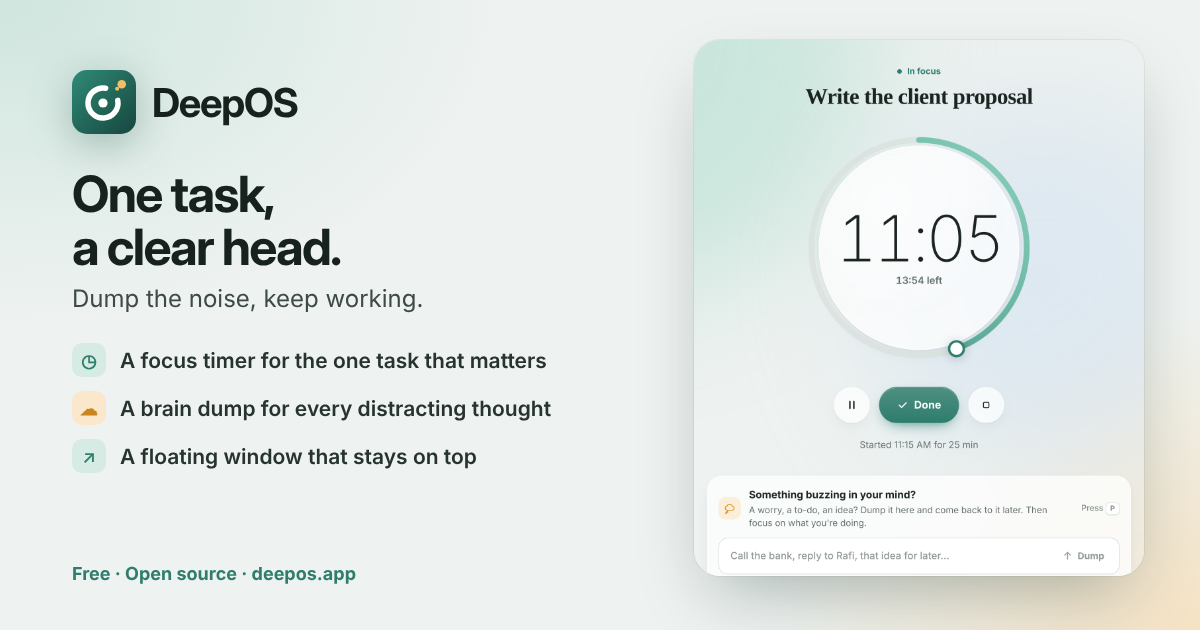
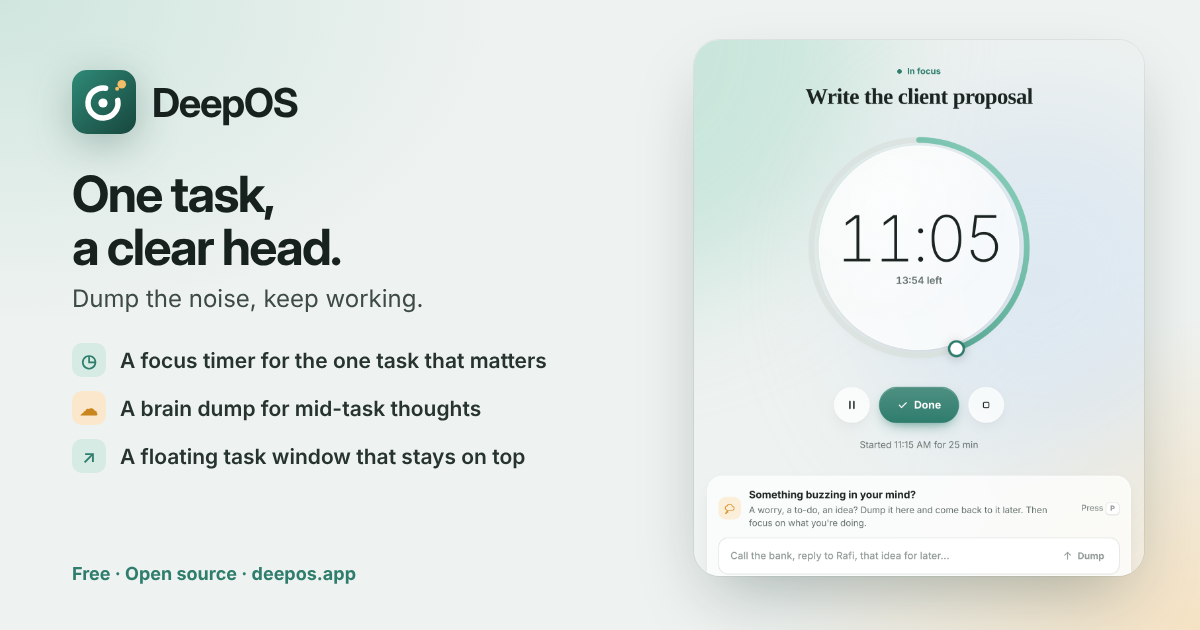
Share image: align feature lines with the new description
Claude-Session: https://claude.ai/code/session_01RPEeNiWPaepkLJj8Ye5Smc

Changed region(s): [[0.185, 0.6937, 0.4317, 0.754], [0.2467, 0.6333, 0.4625, 0.6635]]

diff --git a/index.html b/index.html
@@ -14,7 +14,7 @@
   <meta property="og:image" content="https://deepos.app/og-image.png" />
   <meta property="og:image:width" content="1200" />
   <meta property="og:image:height" content="630" />
-  <meta property="og:image:alt" content="DeepOS: one task, a clear head. A focus timer, a brain dump for distracting thoughts, and a floating window that stays on top." />
+  <meta property="og:image:alt" content="DeepOS: one task, a clear head. A focus timer, a brain dump for mid-task thoughts, and a floating task window that stays on top." />
   <meta name="twitter:card" content="summary_large_image" />
   <meta name="twitter:title" content="DeepOS: one task, a clear head" />
   <meta name="twitter:description" content="Dump the noise, keep working. A free, open-source focus timer with a brain dump." />
